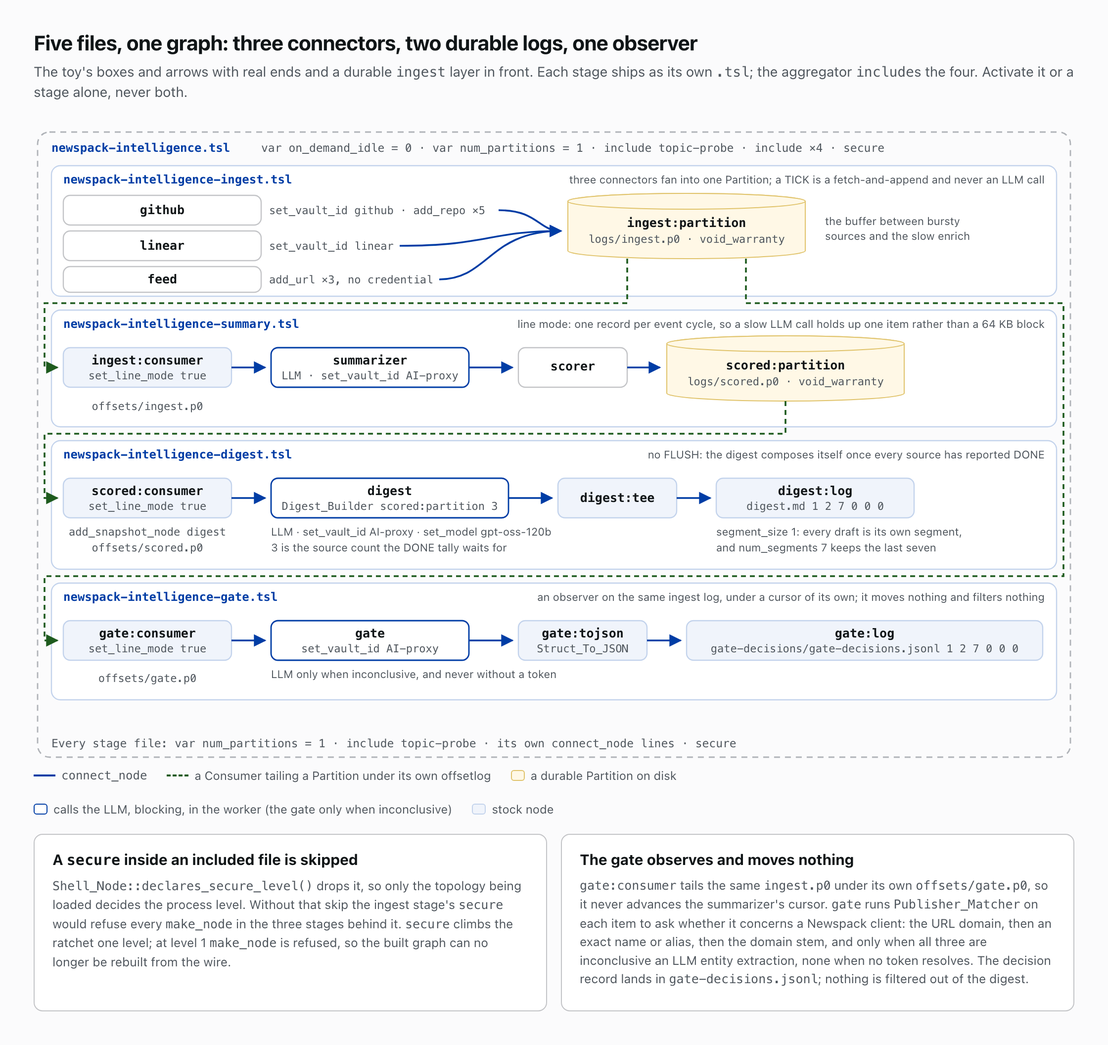
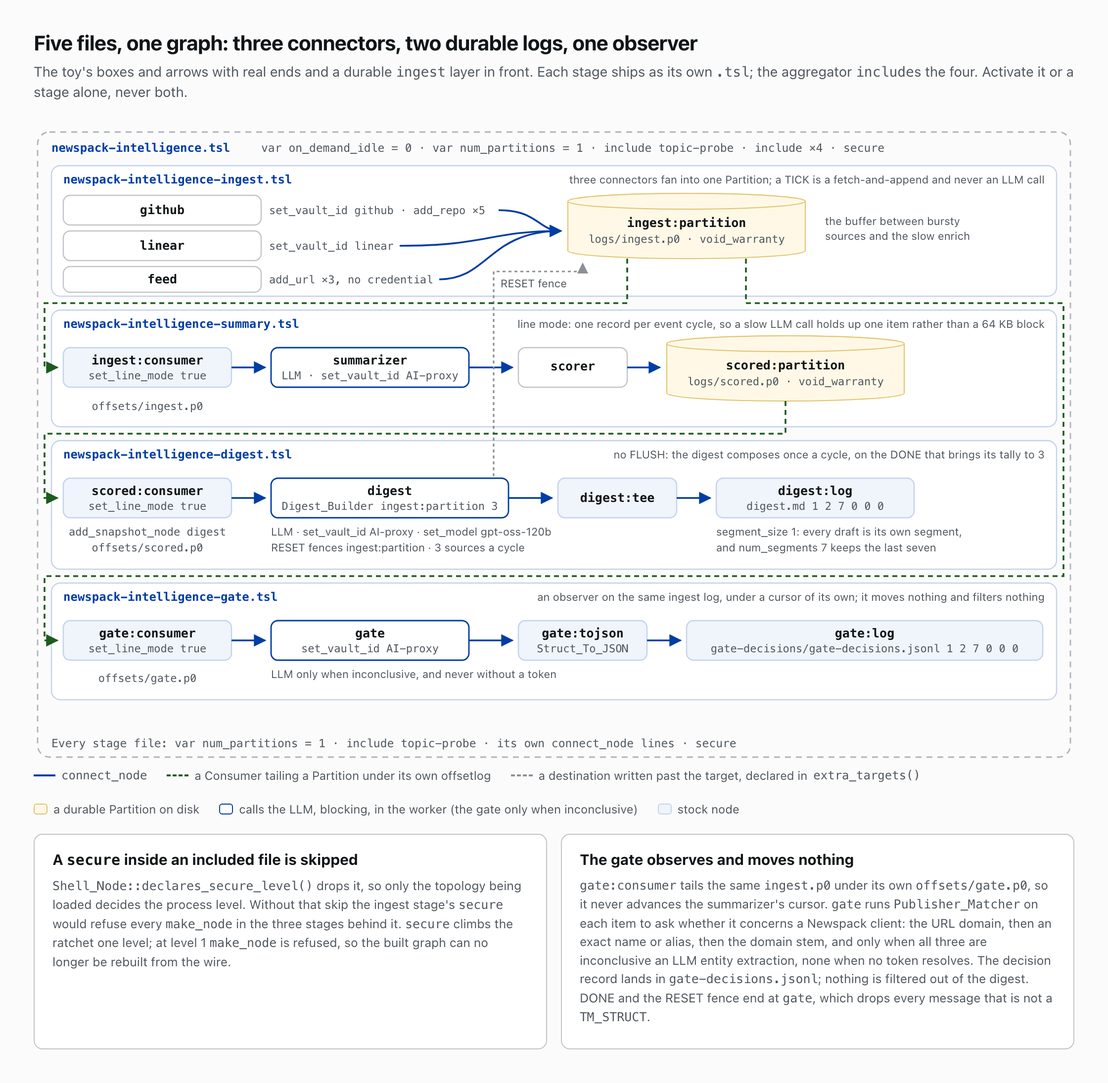
docs: walk the digest's in-band RESET fence in the real-plugin guide
Intelligence's digest now takes the ingest Partition as its first
argument, fences RESET through the pipeline instead of clearing at once,
and composes once per cycle; its Gate drops control signals. The guide's
topology excerpt, `handle_info()` excerpt, by-hand steps, both diagrams
and ADR-23's context described the old immediate clear.

diff --git a/docs/img/wrp-done-to-compose.html b/docs/img/wrp-done-to-compose.html
@@ -20,7 +20,7 @@
 </style>
 <div class="sheet">
 <h1>DONE rides behind the items, and the third one composes the draft</h1>
-<p class="sub">One Collect is a RESET and a TICK per source. Each source's DONE follows its items through both durable logs, gathering a consumer's name onto FROM at each hop, and the digest composes once it has counted three distinct senders.</p>
+<p class="sub">One Collect is a RESET and a TICK per source. RESET's fence and each source's DONE follow the items through both durable logs, gathering a consumer's name onto FROM at each hop. The fence clears the digest when it arrives, and the digest composes once, on the DONE that brings its count of distinct senders to three.</p>
 
 <div class="seq" id="seq">
 <svg class="wire" id="wire"><defs><marker id="a" viewBox="0 0 10 10" refX="9" refY="5" markerWidth="7" markerHeight="7" orient="auto-start-reverse"><path d="M0 0 L10 5 L0 10 z" fill="#003DA5"/></marker></defs></svg>
@@ -31,23 +31,26 @@
 <div class="lane card" data-lane="3"><h3>Enrich + scored log</h3><p><span class="mono">summarizer</span>, <span class="mono">scorer</span>, then <span class="mono">scored:partition</span>; <span class="mono">scored:consumer</span> tails it.</p></div>
 <div class="lane card" data-lane="4"><h3>Digest</h3><p><span class="mono">Digest_Builder</span>, snapshotted into the scored consumer's offsetlog.</p></div>
 
-<div class="hop" data-arrow="0,4" data-cap="request_node digest RESET" data-span="0,4"><span class="n">1</span>Empties <span class="mono">items</span>, <span class="mono">seen</span> and <span class="mono">reported</span>, then appends one throwaway <span class="mono">TM_INFO 'RESET'</span> to <span class="mono">scored:partition</span>, the node its first <span class="mono">make_node</span> argument names; TO is set explicitly, since the target is the draft sink, and an empty argument disables the nudge. That advances <span class="mono">scored:consumer</span>, so its next checkpoint co-commits the emptied snapshot; without it the offsetlog would keep the stale item list and a restart would reload it.</div>
+<div class="hop" data-arrow="0,4" data-cap="request_node digest RESET" data-span="0,4"><span class="n">1</span>RESET clears nothing when it lands. Its handler, <span class="mono">fence()</span>, mints one <span class="mono">TM_INFO "RESET\n"</span> addressed to the Partition its first <span class="mono">make_node</span> argument names, and replies <span class="mono">{ fence: ingest:partition }</span>.</div>
 
-<div class="hop" data-arrow="0,1" data-cap="request_node github TICK, then linear, then feed" data-span="1,3"><span class="n">2</span>Each source appends its new items to <span class="mono">ingest:partition</span> and a DONE after them, <span class="mono">FROM = github</span>. An unconfigured source appends DONE alone: <span class="mono">linear</span> returns <span class="mono">[]</span> before it builds a request, <span class="mono">github</span> fetches without an <span class="mono">Authorization</span> header, <span class="mono">feed</span> never wanted a credential.</div>
+<div class="hop" data-arrow="4,2" data-cap="TM_INFO RESET, TO ingest:partition" data-span="2,4"><span class="n">2</span>TO is set explicitly, because the digest's target is the draft sink, and <span class="mono">extra_targets()</span> declares the Partition so the console draws the edge. The fence lands ahead of this cycle's items and behind every DONE already in the log, so a DONE in flight at RESET still counts toward its own cycle.</div>
 
-<div class="hop" data-arrow="1,2" data-cap="TM_STRUCT ×n, then TM_INFO DONE" data-span="2,4"><span class="n">3</span><span class="mono">set_line_mode true</span>: the drain forwards at most one record per event cycle and skips its buffer top-up on any cycle that forwarded one, so a slow LLM call holds up the next item rather than a whole 64 KB block. The consumer prepends its name: <span class="from">ingest:consumer/github</span>.</div>
+<div class="hop" data-arrow="0,1" data-cap="request_node github TICK, then linear, then feed" data-span="1,3"><span class="n">3</span>Each source appends its new items to <span class="mono">ingest:partition</span> and a DONE after them, <span class="mono">FROM = github</span>. An unconfigured source appends DONE alone: <span class="mono">linear</span> returns <span class="mono">[]</span> before it builds a request, <span class="mono">github</span> fetches without an <span class="mono">Authorization</span> header, <span class="mono">feed</span> never wanted a credential.</div>
 
-<div class="hop" data-arrow="2,3" data-cap="one record per event cycle" data-span="2,4"><span class="n">4</span><span class="mono">Summarizer_Node::fill()</span> and <span class="mono">Scorer_Node::fill()</span> each branch on <span class="mono">TM_INFO</span> before their <span class="mono">TM_STRUCT</span> work and forward it untouched, so DONE stays behind the items it followed. A transform that dropped what it did not recognize would strand the compose. Every scored item lands in <span class="mono">scored:partition</span>.</div>
+<div class="hop" data-arrow="1,2" data-cap="TM_STRUCT ×n, then TM_INFO DONE" data-span="2,4"><span class="n">4</span><span class="mono">set_line_mode true</span>: the drain forwards at most one record per event cycle and skips its buffer top-up on any cycle that forwarded one, so a slow LLM call holds up the next item rather than a whole 64 KB block. The consumer prepends its name: <span class="from">ingest:consumer/github</span>.</div>
 
-<div class="hop" data-arrow="3,4" data-cap="scored:consumer, line mode, add_snapshot_node digest" data-span="2,4"><span class="n">5</span>The second consumer prepends its name too. What the digest reads is <span class="from">scored:consumer/ingest:consumer/github</span>: still one distinct key per source, but not a name you can compare against.</div>
+<div class="hop" data-arrow="2,3" data-cap="one record per event cycle" data-span="2,4"><span class="n">5</span><span class="mono">Summarizer_Node::fill()</span> and <span class="mono">Scorer_Node::fill()</span> each branch on <span class="mono">TM_INFO</span> before their <span class="mono">TM_STRUCT</span> work and forward it untouched, so the fence and each DONE stay behind what preceded them. A transform that dropped what it did not recognize would strand the compose. Every scored item lands in <span class="mono">scored:partition</span>. The gate, tailing the same ingest log, drops both signals.</div>
 
-<div class="hop done" data-span="2,4"><span class="n">6</span>A <span class="mono">TM_STRUCT</span> is accumulated, deduped on <span class="mono">id</span>. A <span class="mono">"DONE\n"</span> sets <span class="mono">reported[ FROM ] = true</span>; when <span class="mono">count( reported ) &gt;= total</span>, with <span class="mono">total</span> the literal <span class="mono">3</span> on the <span class="mono">make_node Digest_Builder digest scored:partition 3</span> line, <span class="mono">compose_draft()</span> writes the draft through <span class="mono">digest:tee</span> to <span class="mono">digest:log</span>. Counting distinct FROM paths rather than raw signals keeps the tally idempotent across re-ticks and replays, so a stale DONE cannot overshoot.</div>
+<div class="hop" data-arrow="3,4" data-cap="scored:consumer, line mode, add_snapshot_node digest" data-span="2,4"><span class="n">6</span>The second consumer prepends its name too. What the digest reads is <span class="from">scored:consumer/ingest:consumer/github</span>: still one distinct key per source, but not a name you can compare against.</div>
+
+<div class="hop done" data-span="2,4"><span class="n">7</span>The fence empties <span class="mono">items</span>, <span class="mono">seen</span> and <span class="mono">reported</span>, and <span class="mono">scored:consumer</span>'s next checkpoint co-commits the emptied snapshot with its cursor. A <span class="mono">TM_STRUCT</span> is accumulated, deduped on <span class="mono">id</span>. A <span class="mono">"DONE\n"</span> from a FROM already in <span class="mono">reported</span> returns at once; any other sets <span class="mono">reported[ FROM ] = true</span>, and the one that makes <span class="mono">count( reported ) === total</span>, with <span class="mono">total</span> the required <span class="mono">3</span> on the <span class="mono">make_node Digest_Builder digest ingest:partition 3</span> line, calls <span class="mono">compose_draft()</span>, which writes the draft through <span class="mono">digest:tee</span> to <span class="mono">digest:log</span>. A re-tick or a replayed DONE therefore cannot compose a cycle twice.</div>
 </div>
 
 <div class="cards">
   <div class="card">
     <h3>Driving it by hand</h3>
     <div class="cmd">&gt; request_node digest RESET
+<span class="c"># clears when its fence returns</span>
 &gt; request_node github TICK
 &gt; request_node linear TICK
 &gt; request_node feed   TICK

diff --git a/docs/img/wrp-production-topology.html b/docs/img/wrp-production-topology.html
@@ -13,12 +13,14 @@
   svg .disk { fill: #FFF8E6; stroke: #E0C36B; }
   svg .wire { fill: none; stroke: #003DA5; stroke-width: 1.8; }
   svg .tail { fill: none; stroke: #1E5B1E; stroke-width: 1.8; stroke-dasharray: 5 4; }
+  svg .fence { fill: none; stroke: #8C9096; stroke-width: 1.6; stroke-dasharray: 3 3; }
   svg .band { fill: #fff; stroke: #C3D3EC; stroke-width: 1.2; }
   svg .agg { fill: none; stroke: #B0B3B8; stroke-width: 1.4; stroke-dasharray: 6 5; }
   .legend { display: flex; gap: 20px; font-size: 12px; color: #50575E; margin: 4px 0 0; align-items: center; flex-wrap: wrap; }
   .legend span { display: inline-flex; align-items: center; gap: 6px; }
   .sw { width: 22px; height: 0; border-top: 2px solid #003DA5; }
   .sw.g { border-top: 2px dashed #1E5B1E; }
+  .sw.f { border-top: 2px dashed #8C9096; }
   .bx { width: 14px; height: 11px; border: 1px solid #C3D3EC; background: #F0F4FB; border-radius: 3px; }
   .bx.d { background: #FFF8E6; border-color: #E0C36B; }
   .bx.l { background: #fff; border-color: #003DA5; }
@@ -33,6 +35,7 @@
 <svg width="1052" height="640" viewBox="0 0 1052 640">
   <defs>
     <marker id="a" viewBox="0 0 10 10" refX="9" refY="5" markerWidth="7" markerHeight="7" orient="auto-start-reverse"><path d="M0 0 L10 5 L0 10 z" fill="#003DA5"/></marker>
+    <marker id="f" viewBox="0 0 10 10" refX="9" refY="5" markerWidth="7" markerHeight="7" orient="auto-start-reverse"><path d="M0 0 L10 5 L0 10 z" fill="#8C9096"/></marker>
     <marker id="g" viewBox="0 0 10 10" refX="9" refY="5" markerWidth="7" markerHeight="7" orient="auto-start-reverse"><path d="M0 0 L10 5 L0 10 z" fill="#1E5B1E"/></marker>
   </defs>
   <!-- aggregator frame -->
@@ -83,13 +86,13 @@
   <!-- band 3: digest -->
   <rect class="band" x="18" y="316" width="1016" height="130" rx="9"/>
   <text class="band" x="30" y="334">newspack-intelligence-digest.tsl</text>
-  <text class="bandn" x="1022" y="334" text-anchor="end">no FLUSH: the digest composes itself once every source has reported DONE</text>
+  <text class="bandn" x="1022" y="334" text-anchor="end">no FLUSH: the digest composes once a cycle, on the DONE that brings its tally to 3</text>
   <rect class="node stock" x="30" y="354" width="170" height="40" rx="7"/><text class="nm" x="115" y="371" text-anchor="middle">scored:consumer</text><text class="sub" x="115" y="386" text-anchor="middle">set_line_mode true</text>
   <text class="sub" x="115" y="412" text-anchor="middle">add_snapshot_node digest</text>
   <text class="sub" x="115" y="428" text-anchor="middle">offsets/scored.p0</text>
-  <rect class="llm" x="240" y="354" width="240" height="40" rx="7"/><text class="nm" x="360" y="371" text-anchor="middle">digest</text><text class="sub" x="360" y="386" text-anchor="middle">Digest_Builder scored:partition 3</text>
+  <rect class="llm" x="240" y="354" width="240" height="40" rx="7"/><text class="nm" x="360" y="371" text-anchor="middle">digest</text><text class="sub" x="360" y="386" text-anchor="middle">Digest_Builder ingest:partition 3</text>
   <text class="note" x="240" y="412">LLM · set_vault_id AI-proxy · set_model gpt-oss-120b</text>
-  <text class="note" x="240" y="428">3 is the source count the DONE tally waits for</text>
+  <text class="note" x="240" y="428">RESET fences ingest:partition · 3 sources a cycle</text>
   <rect class="node stock" x="530" y="354" width="120" height="40" rx="7"/><text class="nm" x="590" y="378" text-anchor="middle">digest:tee</text>
   <rect class="node stock" x="690" y="354" width="200" height="40" rx="7"/><text class="nm" x="790" y="371" text-anchor="middle">digest:log</text><text class="sub" x="790" y="386" text-anchor="middle">digest.md 1 2 7 0 0 0</text>
   <text class="note" x="690" y="412">segment_size 1: every draft is its own segment,</text>
@@ -112,6 +115,10 @@
   <path class="wire" d="M440 518 H 484" marker-end="url(#a)"/>
   <path class="wire" d="M620 518 H 654" marker-end="url(#a)"/>
 
+  <!-- RESET fence: digest writes ingest:partition past its target -->
+  <path class="fence" d="M465 352 V 145 H 555 V 137" marker-end="url(#f)"/>
+  <text class="note" x="472" y="161">RESET fence</text>
+
   <!-- tails across bands -->
   <path class="tail" d="M600 132 V 177 H 11 V 242 H 24" marker-end="url(#g)"/>
   <path class="tail" d="M720 132 V 177 H 1041 V 453 H 11 V 518 H 24" marker-end="url(#g)"/>
@@ -122,6 +129,7 @@
 <div class="legend">
   <span><span class="sw"></span> <span class="mono">connect_node</span></span>
   <span><span class="sw g"></span> a Consumer tailing a Partition under its own offsetlog</span>
+  <span><span class="sw f"></span> a destination written past the target, declared in <span class="mono">extra_targets()</span></span>
   <span><span class="bx d"></span> a durable Partition on disk</span>
   <span><span class="bx l"></span> calls the LLM, blocking, in the worker (the gate only when inconclusive)</span>
   <span><span class="bx"></span> stock node</span>
@@ -134,7 +142,7 @@
   </div>
   <div class="card">
     <h3>The gate observes and moves nothing</h3>
-    <p><span class="mono">gate:consumer</span> tails the same <span class="mono">ingest.p0</span> under its own <span class="mono">offsets/gate.p0</span>, so it never advances the summarizer's cursor. <span class="mono">gate</span> runs <span class="mono">Publisher_Matcher</span> on each item to ask whether it concerns a Newspack client: the URL domain, then an exact name or alias, then the domain stem, and only when all three are inconclusive an LLM entity extraction, none when no token resolves. The decision record lands in <span class="mono">gate-decisions.jsonl</span>; nothing is filtered out of the digest.</p>
+    <p><span class="mono">gate:consumer</span> tails the same <span class="mono">ingest.p0</span> under its own <span class="mono">offsets/gate.p0</span>, so it never advances the summarizer's cursor. <span class="mono">gate</span> runs <span class="mono">Publisher_Matcher</span> on each item to ask whether it concerns a Newspack client: the URL domain, then an exact name or alias, then the domain stem, and only when all three are inconclusive an LLM entity extraction, none when no token resolves. The decision record lands in <span class="mono">gate-decisions.jsonl</span>; nothing is filtered out of the digest. DONE and the RESET fence end at <span class="mono">gate</span>, which drops every message that is not a <span class="mono">TM_STRUCT</span>.</p>
   </div>
 </div>
 </div>

diff --git a/docs/writing-a-real-plugin.md b/docs/writing-a-real-plugin.md
@@ -23,7 +23,7 @@ The finished code is in the sibling [`newspack-intelligence`](https://github.com
 
 The toy graph and the real graph are the same boxes and arrows, plus a durable **ingest** layer the toy didn't need. (The toy's scorer and its `scored` partition arrive in [writing-a-dashboard.md](writing-a-dashboard.md#1-give-the-pipeline-something-worth-showing--score-it-and-make-it-durable) §1, so the bundled example already carries them.) Here's the production topology:
 
-![The production graph as five nested topology files. The aggregator newspack-intelligence.tsl (var on_demand_idle = 0, var num_partitions = 1, include topic-probe, four includes, secure) frames four stage bands. Ingest: github (set_vault_id github and five add_repo lines), linear (set_vault_id linear) and feed (three add_url lines, no credential) fan into ingest:partition, logs/ingest.p0 under void_warranty. Summary: ingest:consumer in line mode feeds the LLM summarizer and the scorer into scored:partition. Digest: scored:consumer, with add_snapshot_node digest, feeds digest (Digest_Builder scored:partition 3), digest:tee and digest:log (digest.md 1 2 7 0 0 0). Gate: gate:consumer tails the same ingest log under offsets/gate.p0 into gate, gate:tojson and gate:log. Dashed green lines mark each Consumer tailing a Partition under its own offsetlog.](img/wrp-production-topology.png)
+![The production graph as five nested topology files. The aggregator newspack-intelligence.tsl (var on_demand_idle = 0, var num_partitions = 1, include topic-probe, four includes, secure) frames four stage bands. Ingest: github (set_vault_id github and five add_repo lines), linear (set_vault_id linear) and feed (three add_url lines, no credential) fan into ingest:partition, logs/ingest.p0 under void_warranty. Summary: ingest:consumer in line mode feeds the LLM summarizer and the scorer into scored:partition. Digest: scored:consumer, with add_snapshot_node digest, feeds digest (Digest_Builder ingest:partition 3), digest:tee and digest:log (digest.md 1 2 7 0 0 0), and a dashed gray edge runs from digest up to ingest:partition, where RESET appends its fence. Gate: gate:consumer tails the same ingest log under offsets/gate.p0 into gate, which drops DONE and the fence, then gate:tojson and gate:log. Dashed green lines mark each Consumer tailing a Partition under its own offsetlog.](img/wrp-production-topology.png)
 
 It ships as five `.tsl` files, not one. [`topologies/newspack-intelligence.tsl`](https://github.com/Automattic/newspack-intelligence/blob/v0.9.12/topologies/newspack-intelligence.tsl) is an aggregator that `include`s a file per stage — `-ingest`, `-summary`, `-digest`, and `-gate` — and restates the resident default, `var on_demand_idle = 0`, which a stage meant to sleep between collects would raise. `register_plugin()` catalogs *every* `.tsl` in `topologies/`, so a stage can be activated alone and run as its own fleet — instead of the aggregator, never alongside it ([§6](#6-ship--operate-it)).
 
@@ -463,9 +463,9 @@ make_node Consumer scored:consumer <config:logs_dir>/scored.p<partition> <config
 # so a respawned worker restores the accumulator in lockstep with the cursor.
 cmd scored:consumer:config add_snapshot_node digest
 cmd scored:consumer:config set_line_mode true
-# Two args: the scored Partition to nudge on RESET, then the progress denominator
-# (done/total), which MUST equal the number of sources that will report DONE.
-make_node Digest_Builder digest scored:partition 3
+# Two required args: the ingest Partition RESET appends its fence to, then the
+# sources per cycle (done/total), which MUST equal the sources that report DONE.
+make_node Digest_Builder digest ingest:partition 3
 cmd digest:config set_vault_id AI-proxy
 cmd digest:config set_model gpt-oss-120b
 make_node Tee digest:tee
@@ -493,29 +493,43 @@ Three sources, one partition, one wire each — fan-in needs no special node, ju
 
 ### There is no manual FLUSH — the digest auto-composes on `DONE`
 
-Unlike the toy, the real digest is **not** flushed by hand. Each source ends its TICK with a terminal `DONE` (§2); the digest counts the *distinct* sources that have reported and composes + writes `digest:log` automatically once every source is in:
+Unlike the toy, the real digest is **not** flushed by hand. Each source ends its TICK with a terminal `DONE` (§2); the digest counts the *distinct* sources that have reported and composes + writes `digest:log` once a cycle, on the DONE that brings that count to `total`:
 
-![A sequence across five lanes: Collect, Sources, the ingest log and consumer, the enrich stage and scored log, and the Digest. One Collect sends request_node digest RESET, which empties items, seen and reported and appends a throwaway TM_INFO 'RESET' to scored:partition so the next checkpoint co-commits the emptied snapshot, then a TICK to github, linear and feed. Each source appends its items and a DONE to ingest:partition; ingest:consumer forwards one record per event cycle in line mode and prepends its name to FROM; the summarizer and scorer forward TM_INFO untouched, so DONE stays behind its items; scored:consumer prepends its name again, so the digest reads scored:consumer/ingest:consumer/github. The digest marks reported[ FROM ] and composes the draft through digest:tee into digest:log once count( reported ) reaches the literal 3 on its make_node line.](img/wrp-done-to-compose.png)
+![A sequence across five lanes: Collect, Sources, the ingest log and consumer, the enrich stage and scored log, and the Digest. One Collect sends request_node digest RESET, which clears nothing on arrival: fence() appends a TM_INFO "RESET\n" to ingest:partition, the Partition its first make_node argument names, ahead of this cycle's items and behind every DONE already in the log. Then a TICK goes to github, linear and feed, and each appends its items and a DONE to ingest:partition. ingest:consumer forwards one record per event cycle in line mode and prepends its name to FROM; the summarizer and scorer forward TM_INFO untouched, so the fence and each DONE stay in order behind what preceded them, while the gate, tailing the same log, drops both; scored:consumer prepends its name again, so the digest reads scored:consumer/ingest:consumer/github. The fence empties items, seen and reported when it arrives, and scored:consumer's next checkpoint co-commits the emptied snapshot. A DONE from a sender not yet counted marks reported[ FROM ], and the one that brings count( reported ) to the required 3 on the make_node line composes the draft through digest:tee into digest:log; a DONE from a sender already counted is ignored.](img/wrp-done-to-compose.png)
 
 ```php
-// Digest_Builder_Node::handle_info() — a DONE from each distinct source; compose when all in.
-if ( "DONE\n" === $value ) {
-	$from                    = \is_string( $message[ Message::FROM ] ?? null ) ? $message[ Message::FROM ] : '';
+private function handle_info( array $message ): void {
+	$value = \is_string( $message[ Message::VALUE ] ?? null ) ? $message[ Message::VALUE ] : '';
+	if ( self::FENCE === $value ) {
+		$this->reset();
+		return;
+	}
+	if ( "DONE\n" !== $value ) {
+		return;
+	}
+	$from = \is_string( $message[ Message::FROM ] ?? null ) ? $message[ Message::FROM ] : '';
+	if ( isset( $this->reported[ $from ] ) ) {
+		return;
+	}
 	$this->reported[ $from ] = true;
-	if ( \count( $this->reported ) >= $this->total ) {
+	if ( \count( $this->reported ) === $this->total ) {
 		$this->compose_draft();
 	}
 }
 ```
 
+Two guards hold the digest to one compose a cycle. A DONE from a sender already counted returns before it touches the tally, so a re-tick or a replayed record cannot compose twice, and the test is `===`, so exactly one DONE meets it.
+
+RESET clears nothing when the request lands. Its handler, `fence()`, appends `TM_INFO` `"RESET\n"` (`Digest_Builder_Node::FENCE`) to the Partition named by the first `make_node` argument, setting TO explicitly because the node's `target` is the draft sink. The fence then travels the whole pipeline — `ingest:consumer`, `summarizer`, `scorer`, `scored:partition`, `scored:consumer` — and `reset()` empties `items`, `seen` and `reported` only when it arrives. Every DONE already in flight when Collect fired sits ahead of the fence in that log, so it counts toward the cycle it belongs to and can complete that cycle's compose; none leaks into the next. Clearing on arrival also lands the emptied snapshot in `scored:consumer`'s next checkpoint, in lockstep with its cursor. Because the digest writes that Partition past its `target`, it declares it in `extra_targets()` ([ADR-19](architecture-decisions.md#adr-19-a-node-may-declare-a-destination-it-writes-without-routing)), and the console draws the edge. The gate stage reads the same fence and DONE lines off `ingest.p0`; `Gate_Node::fill()` drops every non-`TM_STRUCT` message, so neither lands in the decision log.
+
 So driving it by hand is a **RESET, then a TICK per source** — the dashboard's *Collect* button does exactly this:
 
 ```
-> request_node digest RESET        # empty the accumulator, zero the per-cycle DONE tally
+> request_node digest RESET        # fence ingest:partition; the digest clears when it returns
 > request_node github TICK
 > request_node linear TICK
 > request_node feed   TICK
-# …the third DONE reaches the digest and it composes + writes digest:log automatically.
+# …the fence clears the digest, then the third DONE composes and writes digest:log.
 ```
 
 ---
@@ -613,5 +627,5 @@ That was the short hop the toy guide promised: `items()` becomes `fetch()`. It t
 - **[writing-a-real-dashboard.md](writing-a-real-dashboard.md)** — this guide's sibling: the production console/dashboard surfaces (palette vs inspector, measured transcript ceilings, the icons build gotcha) and the *insights out* half §4 deferred.
 - **[writing-a-dashboard.md](writing-a-dashboard.md)** — the toy Publisher Insights React dashboard walkthrough.
 - **[architecture-guide.md](architecture-guide.md)** — the full model: drain loop, partitions, workers, fleet revival, the REPL.
-- **[architecture-decisions.md](architecture-decisions.md)** — the six ADRs this guide leans on (ADR-1 uniform `fill()`, ADR-3 fire-and-forget, ADR-4 PIPE_BUF, ADR-8 worker zombie, ADR-10 `make_node` namespace resolution, ADR-11 `make_node` construction).
+- **[architecture-decisions.md](architecture-decisions.md)** — the seven ADRs this guide leans on (ADR-1 uniform `fill()`, ADR-3 fire-and-forget, ADR-4 PIPE_BUF, ADR-8 worker zombie, ADR-10 `make_node` namespace resolution, ADR-11 `make_node` construction, ADR-19 declared destinations).
 - **[`newspack-intelligence`](https://github.com/Automattic/newspack-intelligence)** — the complete production plugin: `includes/`, the aggregator and four stage `.tsl` files under `topologies/`, the PHPUnit suite.

diff --git a/docs/architecture-decisions.md b/docs/architecture-decisions.md
@@ -1378,8 +1378,8 @@ at which point a stamp and a worker id can no longer be told apart by position.
 
 **Context:** TM_REQUEST is the runtime plane: a trigger or a query against a running graph.
 A request may mutate — the example plugin's `TICK` emits items and its `FLUSH` writes a
-draft, and intelligence's `RESET` empties the digest's items and `REGENERATE` composes a new
-draft. Nothing verifies a request. `HTTP_In` installs its HMAC verifier as every interpreter's
+draft, and intelligence's `RESET` appends a fence to its ingest Partition, on whose return the
+digest empties its items, and `REGENERATE` composes a new draft. Nothing verifies a request. `HTTP_In` installs its HMAC verifier as every interpreter's
 default `authorize`, which `Command_Interpreter_Node::interpret()` calls for a TM_COMMAND alone, and
 `Message::packed()` slices `Message::LOCAL` off, so no taint survives an IPC hop
 ([ADR-15](#adr-15-command-authorization-local-taint--the-minter-signs)). The authority for a
